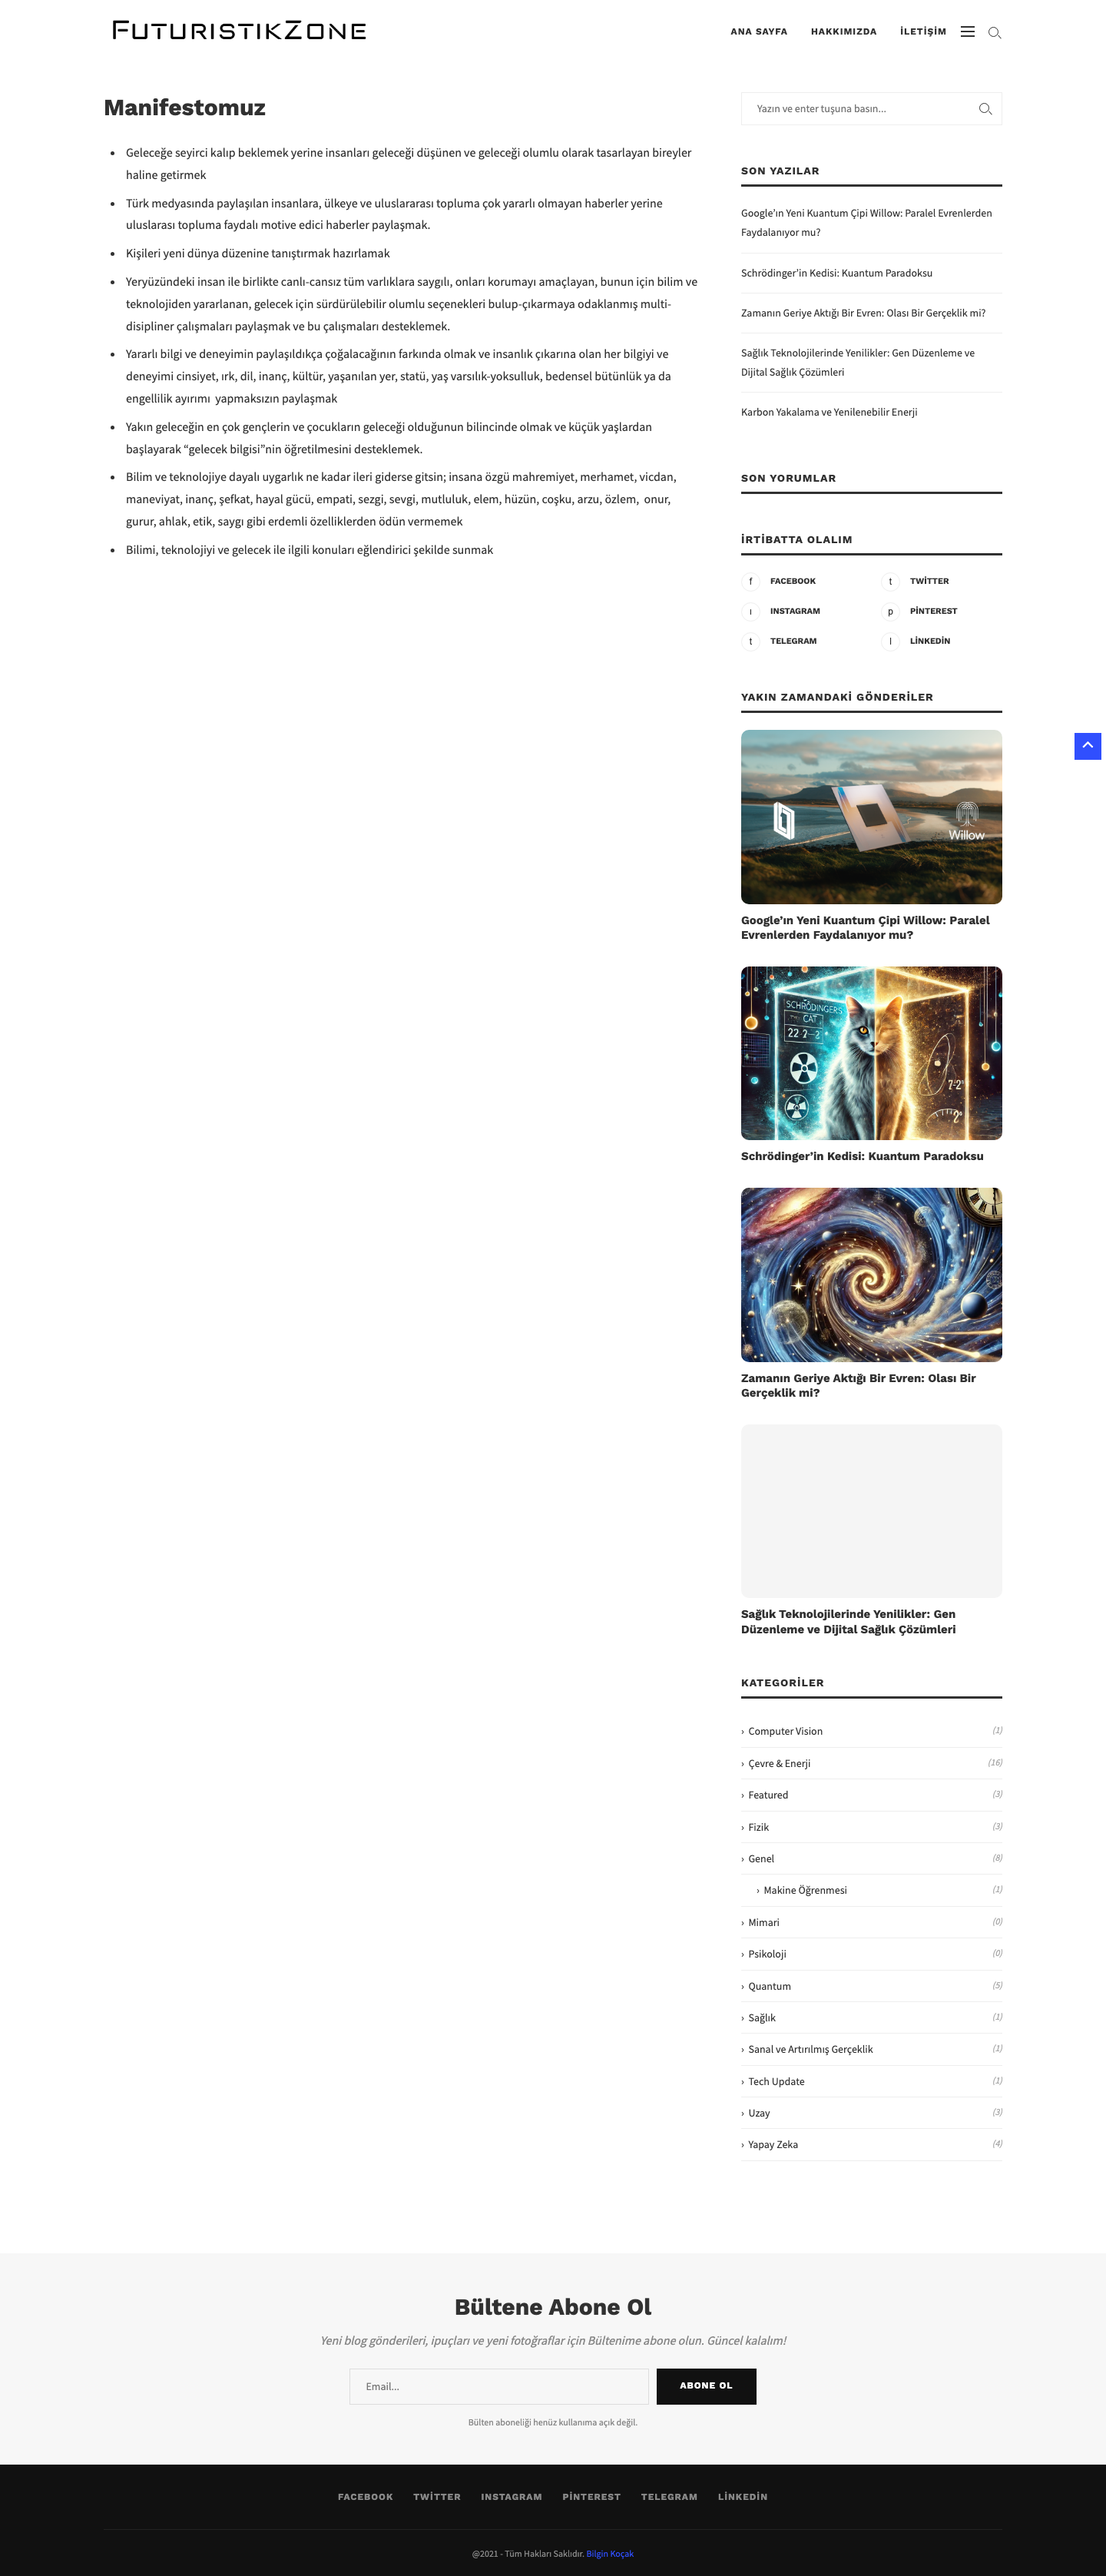
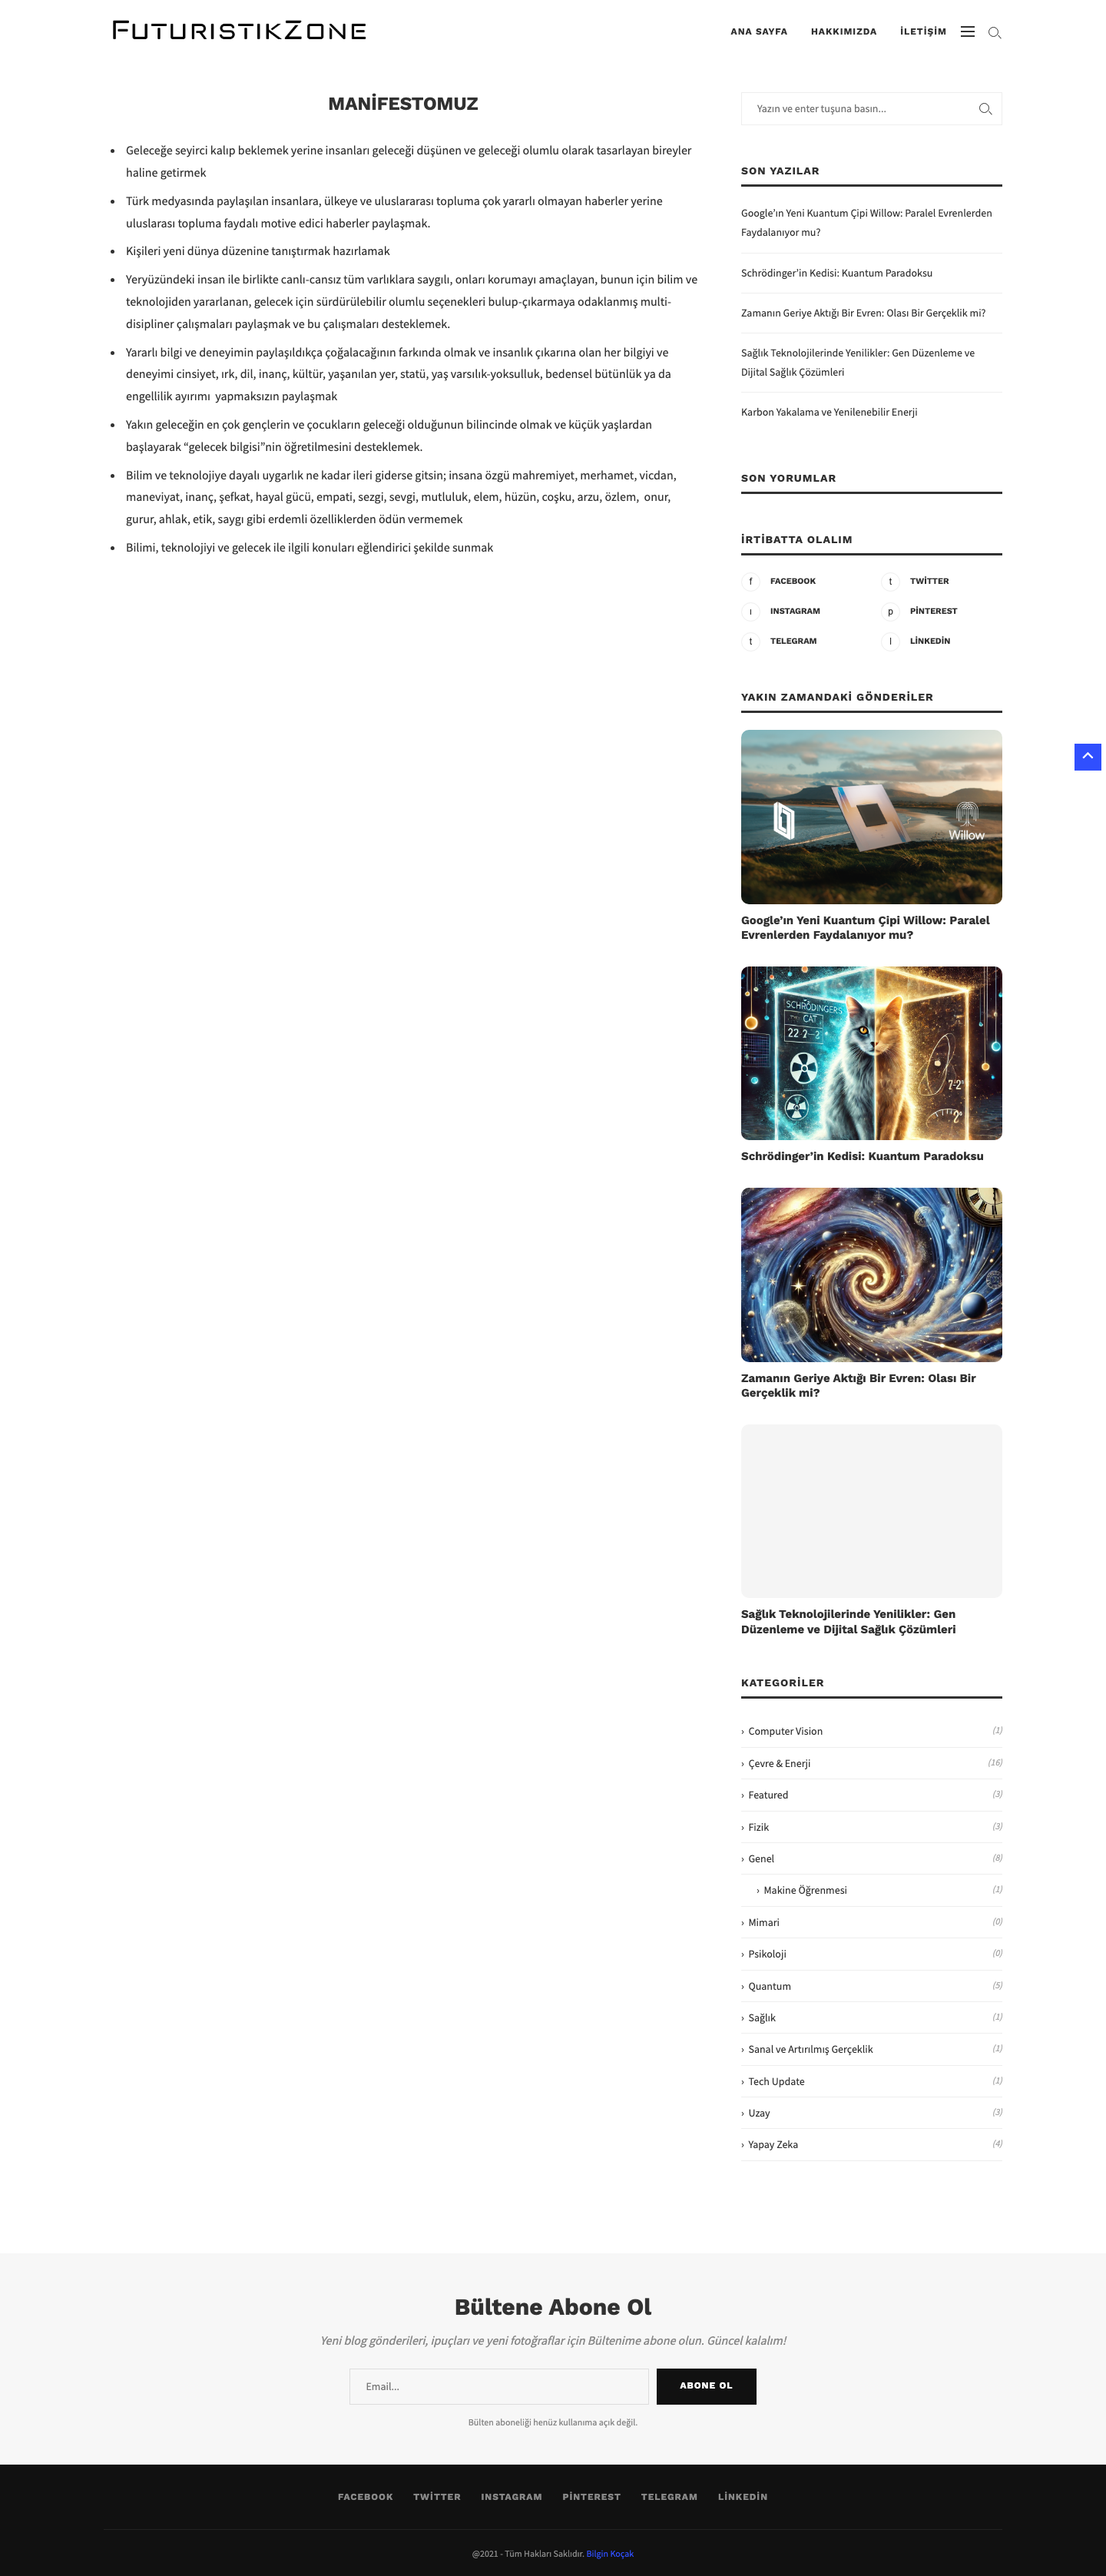
Preserve recovered data across archive failures and verify recovery regressions

Changed region(s): [[0.0938, 0.031, 0.5938, 0.2171], [0.9688, 0.2792, 1.0, 0.3102]]

diff --git a/src/styles/global.css b/src/styles/global.css
@@ -4,3 +4,4 @@
 @media(max-width:600px){.container{width:calc(100% - 40px)}.header-inner{width:calc(100% - 20px)}.brand{width:200px}.brand img{width:200px;height:52px}.featured-slider{width:100%;height:215px}.slider-image{object-position:center}.slider-shade{background:#0001}.slider-copy{width:100%;padding:0 30px}.slider-copy h2{background:#304ffeeb;padding:15px 12px;text-align:center;font-size:16px;line-height:1.2;margin:0}.slider-categories,.slider-meta,.slider-copy p,.read-more{display:none}.slider-dots{bottom:26px}.environment-grid{display:block}.environment-lead{margin-bottom:35px}.environment-lead h3{font-size:18px}.environment-lead .post-meta{display:none}.environment-small article{margin-bottom:25px;padding-bottom:0;border:0}.environment-small h3{font-size:14px}.environment-small .small-image{width:120px;flex-basis:120px}.environment-section{margin-bottom:60px}.section-title.center{font-size:12px;gap:8px;letter-spacing:.5px}.post-card{display:block;margin-bottom:30px;padding-bottom:30px}.card-thumbnail{width:100%;margin-bottom:22px}.post-card h2{font-size:20px;line-height:1.2}.post-card .post-meta{font-size:12px}.category-labels{font-size:11px}.sidebar{margin-top:60px}.article-title{font-size:20px}.article-featured{margin-top:4px;margin-bottom:28px}.page-title{font-size:24px}.article-body .wp-block-columns{display:block}.newsletter h2{font-size:24px}.newsletter-fields{display:flex;flex-direction:column;max-width:350px;margin:auto}.newsletter input{width:100%}.newsletter button{width:100%}.newsletter p{font-size:14px}.site-footer nav{gap:15px;font-size:10px}.site-footer{padding-top:25px}.back-to-top{width:30px;height:30px;line-height:35px}.related-posts>div{gap:12px}.related-posts h3{font-size:11px}.archive-title{font-size:20px}.adjacent-posts{gap:20px}.site-columns{margin-bottom:60px}}
 @media(prefers-reduced-motion:reduce){html{scroll-behavior:auto}}
 .navigation-drawer{position:fixed;inset:0 0 0 auto;margin:0;border:0;border-left:1px solid #eee;width:370px;max-width:100%;height:100vh;max-height:100vh;padding:55px 30px;background:#fff;color:#313131}.navigation-drawer::backdrop{background:#0006}.navigation-drawer .drawer-close{position:absolute;right:20px;top:10px;border:0;background:none;font-size:28px}.navigation-drawer nav{display:flex;flex-direction:column;margin:30px 0}.navigation-drawer nav a{padding:10px 0;border-bottom:1px solid #eee;font-size:13px;font-family:'Work Sans';text-transform:uppercase}.navigation-drawer h2{font-size:14px;text-transform:uppercase;border-bottom:3px solid #313131;padding-bottom:10px}.navigation-drawer ol{padding-left:25px}.navigation-drawer li{padding:12px 0 12px 6px;font-family:'Work Sans';font-size:13px;border-bottom:1px solid #eee}.author-box{display:flex;gap:20px;align-items:flex-start}.author-box img{width:100px;height:100px;border-radius:50%;flex-shrink:0}.author-box p{font-size:14px;margin:12px 0}.author-box nav{display:flex;gap:15px;margin-top:12px;font-size:12px;color:#888;flex-wrap:wrap}
+.original-page-title{text-align:center;text-transform:uppercase;font-size:24px;margin-bottom:30px}@media(max-width:600px){.original-page-title{font-size:20px}}

diff --git a/src/app/[...segments]/page.tsx b/src/app/[...segments]/page.tsx
@@ -19,5 +19,5 @@ function ArticleContent({article}:{article:Article}){const image=imageFor(articl
   <script type="application/ld+json" dangerouslySetInnerHTML={{__html:JSON.stringify({'@context':'https://schema.org','@type':'Article',headline:article.title,datePublished:article.publishedAt,author:article.author?{'@type':'Person',name:article.author.name,url:`https://futuristikzone.com${article.author.path}`}:undefined,mainEntityOfPage:`https://futuristikzone.com${article.path}`,image:image?.localPath?`https://futuristikzone.com${image.localPath}`:undefined,publisher:{'@type':'Organization',name:'FuturistikZone',url:'https://futuristikzone.com'}}).replace(/</g,'\\u003c')}}/>
   </>;}
 export default async function ContentPage({params}:Props){const {segments}=await params;const route=routeFor('/'+segments.join('/')+'/');if(!route)notFound();const contact=route.path==='/iletisim/';return <div className={`site-columns container inner-page ${contact?'wide-page':''}`}><main id="main-content">
-  {route.kind==='article'&&route.article?<ArticleContent article={route.article}/>:route.kind==='page'&&route.article?<><h1 className="page-title">{route.title}</h1><div className="article-body" dangerouslySetInnerHTML={{__html:renderedBody(route.article)}}/>{contact&&<Contact/>}</>:<><h1 className="archive-title">{route.title}</h1><Feed posts={route.posts||[]}/><Pagination base={route.base} current={route.page} pages={route.pages||[1]}/></>}
+  {route.kind==='article'&&route.article?<ArticleContent article={route.article}/>:route.kind==='page'&&route.article?<><h1 className="page-title original-page-title">{route.title}</h1><div className="article-body" dangerouslySetInnerHTML={{__html:renderedBody(route.article)}}/>{contact&&<Contact/>}</>:<><h1 className="archive-title">{route.title}</h1><Feed posts={route.posts||[]}/><Pagination base={route.base} current={route.page} pages={route.pages||[1]}/></>}
   </main>{!contact&&<Sidebar/>}</div>;}

diff --git a/README.md b/README.md
@@ -8,7 +8,7 @@ Static reconstruction of the original WordPress publication, based on Internet A
 - 13 verified original images, including the logo and two author avatars.
 - 14 original categories, 10 author archives, About, Contact, tag archives, and captured homepage pagination through pages 2, 3 and 8.
 - 76 public static routes; 74 indexable sitemap URLs; RSS contains all 27 articles.
-- Build, 12 unit tests, 7 browser tests, and export integrity checks pass.
+- Build, 19 unit tests, 7 browser tests, and export integrity checks pass.
 
 “Full” means the editorial body present in the archived source. The archive cannot prove that every original segment survived. Some listings retain original excerpts whose article bodies are unavailable. Those excerpts have no article link and are labeled in Turkish.
 
@@ -43,7 +43,7 @@ The committed `content/` and `public/` files are sufficient to build. Archive ac
 npm run recover:all
 ```
 
-The pipeline queries the CDX domain index across HTTP/HTTPS and `www`, traverses original links, tries captures on or before 9 February 2026, explores historical homepages, supplements bodies from the archived Atom feed, and downloads verified images. Requests are sequential, throttled, retried with exponential backoff, and cached under ignored `.archive-cache/`. A rerun updates files by original slug rather than duplicating posts. Missing source pages remain in the manifest.
+The pipeline queries the CDX domain index across HTTP/HTTPS and `www`, traverses original links, tries up to four captures on or before 9 February 2026, explores historical homepages, supplements bodies from the archived Atom feed, and downloads verified images. It compares candidate bodies before choosing: valid complete metadata wins over partial metadata, more editorial text wins within the same status, and the newer timestamp breaks ties. Each refresh retains the previous verified body/image if replacements fail or are worse. Requests are sequential, throttled, retried with exponential backoff, and cached under ignored `.archive-cache/`. A rerun updates files by original slug rather than duplicating posts. Missing source pages remain in the manifest, and committed registries/listings survive absent caches.
 
 ```bash
 node scripts/archive/recover.mjs --cached-only
@@ -60,7 +60,7 @@ Browser audit commands require installed Chromium. The local capture command req
 1. In Netlify, choose **Add new project → Import an existing project → GitHub** and select `bilgin-kocak/futuristikzone`.
 2. Deploy branch `main`. The committed `netlify.toml` sets build command `npm run build`, publish directory `out`, and Node 22.
 3. This is a static export; no Next.js server runtime is required. `NETLIFY_NEXT_PLUGIN_SKIP=true` keeps deployment focused on the exported files. See [Next.js static exports](https://nextjs.org/docs/app/guides/static-exports).
-4. Verify the assigned `*.netlify.app` URL, an article URL, `/page/2/`, `/sitemap.xml`, `/feed.xml`, and a 404 before connecting the domain.
+4. Verify the assigned `*.netlify.app` URL, an article URL, `/page/2/`, `/sitemap.xml`, `/rss.xml`, and a 404 before connecting the domain.
 5. Add `futuristikzone.com` as the primary domain and `www.futuristikzone.com` as its alias. The config redirects `www` to the apex with HTTP 301. Static routes use trailing slashes.
 6. After DNS resolves, verify Netlify's automatic HTTPS certificate covers both names.
 

diff --git a/reports/code-review.md b/reports/code-review.md
@@ -1,0 +1,26 @@
+# Final code review
+
+A fresh reviewer inspected the initial restoration commit, requirements, pipeline, static routes and deployment configuration. It ran the unit suite and focused offline fixtures. It reported no Critical findings, six Important recovery issues, and one documentation issue.
+
+## Fixes
+
+| Finding | Resolution and evidence |
+| --- | --- |
+| Missing extraction caches erase category/author registries and listings | Seed from committed records and merge successful results. An actual command regression in a temporary checkout reproduced data loss, then passed without caches or network. |
+| A longer partial capture beats a complete one; newest opening stops older inspection | Rank complete metadata ahead of partial metadata and compare up to four candidates, using editorial text length then capture time. Both unit fixtures and an actual recovery-command fixture reproduced the failure before passing. Completeness evidence includes valid metadata, body length and final captured editorial text. |
+| Missing href/date/author yields fabricated root URL and complete status | Empty URLs now return null. Completeness requires a title, valid date, author name and original author path. Missing/invalid metadata and Turkish escape-case fixtures failed before passing. |
+| Failed refresh overwrites a previously verified body | Keep cached or committed bodies in the candidate set. Failure/partial refresh regression failed before passing; previous complete status remains preferred. |
+| Failed higher-resolution image upgrade loses the existing mapping | Retain the recovered file, dimensions and checksum; store the failed replacement separately. Regression failed before passing. |
+| Equivalent Turkish percent encodings create duplicate identities | Canonicalize percent-escape casing without altering decoded slugs. Literal/lowercase/uppercase Turkish paths now converge. |
+| README verifies a nonexistent feed.xml URL | Corrected deployment instructions to the generated rss.xml. |
+
+All 19 unit tests pass after the fixes, including the original 12 tests. No additional review round was required; focused regressions and the full suite verify the changes.
+
+## Scope judgments
+
+- The reviewer did not independently judge visual fidelity. The implementation pass compared the 11 archived/local screenshot pairs, adjusted the layout and documented remaining differences. Cost if wrong: additional CSS/image refinements after user review.
+- Live Netlify submissions, DNS and HTTPS were not tested. The user explicitly chose to deploy the site themselves. Contact/newsletter controls remain inactive unless configured. Cost: deployment and live delivery verification remain with the owner.
+- Original social destinations are supported by archived HTML; their present activity is not guaranteed. Cost: the owner may later remove retired accounts.
+- An archive cannot prove the original database's full contents. Recovery status refers to the body present in the source, and unavailable paths/assets are listed. Cost: remaining content may require backups or original authors' files.
+
+There are no deferred code review findings.

diff --git a/reports/progress.md b/reports/progress.md
@@ -25,3 +25,11 @@
 - Desktop popular-post drawer added after browser test observed failing then passing; keyboard Escape verified.
 - Higher-resolution original image variants preferred over small thumbnails; invalid historical data-src article URL removed from featured-image metadata.
 - Final pre-review gate: npm test 12/12, npm run build succeeds, export validator 76 pages / 0 errors, Playwright 7/7, dependency audit 0 vulnerabilities.
+- Final review: one fresh reviewer; six Important recovery findings and one RSS documentation correction. Findings and scope judgments recorded in code-review.md.
+- Final: fixed registry/listing loss — actual cached-only recovery/catalog fixture RED→GREEN.
+- Final: fixed capture precedence/truncated-body choice — complete/partial fixtures and actual recovery command RED→GREEN.
+- Final: fixed invented metadata and equivalent Turkish encoding identities — null URL, invalid date/author and path normalization fixtures RED→GREEN.
+- Final: fixed failed refresh downgrade — prior verified body regression RED→GREEN.
+- Final: fixed failed image upgrade downgrade — preserved image mapping/checksum regression RED→GREEN.
+- Final gate after review fixes: npm test 19/19. Build/browser checks rerun before push.
+- User chose to handle Netlify deployment themselves; delivery scope ends at the pushed repository and deployment instructions.

diff --git a/reports/migration-report.md b/reports/migration-report.md
@@ -102,7 +102,7 @@ See [missing assets](missing-assets.md) for image failures and [manifest](../con
 ## C. Quality verification
 
 - **npm run build**: successful static compilation, strict TypeScript, feed generation and export validation.
-- **npm test**: 12 passing unit tests covering extraction, Atom prose, Turkish paths/search, cutoff selection, adjacent links/author metadata, retry behavior, asset validation and content rewriting.
+- **npm test**: 19 passing unit tests covering extraction, Atom prose, Turkish paths/search, cutoff selection, adjacent links/author metadata, retry behavior, asset validation, content rewriting, and regression cases for cache loss, truncated captures, failed refreshes, invalid metadata and failed image upgrades.
 - **npm run test:browser**: 7 passing Playwright tests covering Willow content/search, original pagination, desktop/mobile navigation, keyboard dismissal, 404, loaded viewport images and no horizontal overflow at 1440/768/390 px.
 - Export validator: 76 public HTML pages checked; no missing local links/images or duplicate canonicals. Every published article has required provenance/metadata. No runtime Wayback or WordPress resources.
 - Full browser route walk: 76 URLs returned HTTP 200 with no JavaScript page errors.

diff --git a/reports/visual-comparison.md b/reports/visual-comparison.md
@@ -2,6 +2,8 @@
 
 Eleven archived/restored pairs are saved in [the side-by-side viewer](visual-comparison.html) and `comparisons/`. The original screenshots are in `archive-reference/screenshots/`; local screenshots are in `reports/screenshots/`. Each uses the same viewport width and a 1000 px browser height, with full-page capture.
 
+Chromium's full-page screenshot capture painted the negative-position fixed skip link into the mobile header even though normal viewport screenshots showed it correctly offscreen. The capture command hides that unfocused link only during screenshots; keyboard focus behavior remains unchanged in the application.
+
 | Page | Widths | Comparison |
 | --- | --- | --- |
 | Homepage | 1440, 768, 390 | [Desktop](comparisons/home-1440.png), [tablet](comparisons/home-768.png), [mobile](comparisons/home-390.png) |
